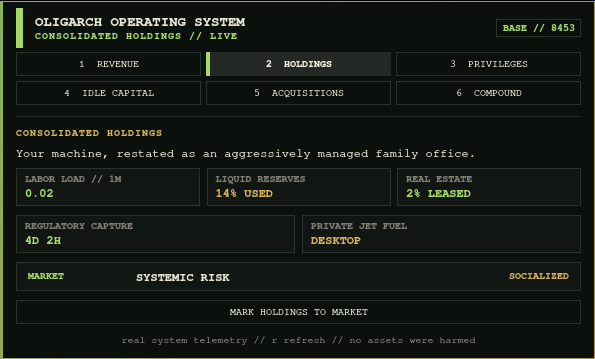
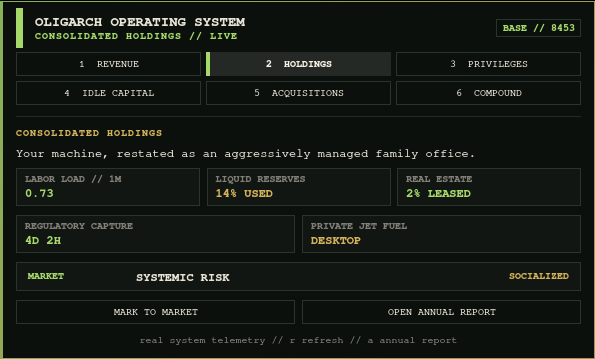
Add the floating annual report

diff --git a/TaxDepartment.qml b/TaxDepartment.qml
@@ -17,7 +17,7 @@ Panel {
   readonly property color contentUrgent: bar ? bar.urgent : Color.urgent
   readonly property string contentFontFamily: bar ? bar.fontFamily : Style.font.family
   readonly property var pageNames: ["REVENUE", "HOLDINGS", "PRIVILEGES", "IDLE CAPITAL", "ACQUISITIONS", "COMPOUND"]
-  readonly property var pageActionCounts: [3, 1, 4, 4, 5, 5]
+  readonly property var pageActionCounts: [3, 2, 4, 4, 5, 5]
   readonly property var pageComponents: [revenuePage, holdingsPage, privilegesPage, screensaverPage, acquisitionsPage, compoundPage]
 
   property int serial: 1040
@@ -164,6 +164,17 @@ Panel {
     if (!metricsProcess.running) metricsProcess.running = true
   }
 
+  function openAnnualReport() {
+    var reportUrl = Qt.resolvedUrl("annual-report.sh").toString()
+    var reportPath = decodeURIComponent(reportUrl.replace(/^file:\/\//, ""))
+    receipt = "ANNUAL REPORT FILED // UNAUDITED FOREVER"
+    root.close()
+    Quickshell.execDetached([
+      "omarchy-launch-floating-terminal-with-presentation",
+      "bash " + Util.shellQuote(reportPath)
+    ])
+  }
+
   function setPage(index) {
     pageIndex = ((index % pageNames.length) + pageNames.length) % pageNames.length
     actionIndex = 0
@@ -189,8 +200,12 @@ Panel {
       else if (actionIndex === 1) openExplorer()
       else reassess()
     } else if (pageIndex === 1) {
-      refreshMetrics()
-      receipt = "HOLDINGS MARKED TO MARKET"
+      if (actionIndex === 0) {
+        refreshMetrics()
+        receipt = "HOLDINGS MARKED TO MARKET"
+      } else {
+        openAnnualReport()
+      }
     } else if (pageIndex === 2) {
       if (actionIndex === 0) lockEstate()
       else if (actionIndex === 1) toggleSilence()
@@ -221,8 +236,9 @@ Panel {
       if (key === "c") copyAddress()
       else if (key === "o") openExplorer()
       else if (key === "r") reassess()
-    } else if (pageIndex === 1 && key === "r") {
-      refreshMetrics()
+    } else if (pageIndex === 1) {
+      if (key === "r") refreshMetrics()
+      else if (key === "a") openAnnualReport()
     } else if (pageIndex === 2) {
       if (key === "l") lockEstate()
       else if (key === "d") toggleSilence()
@@ -426,7 +442,7 @@ Panel {
         Text {
           width: parent.width
           text: root.pageIndex === 0 ? "1–6 desks // c copy // o ledger // r reassess"
-            : root.pageIndex === 1 ? "real system telemetry // r refresh // no assets were harmed"
+            : root.pageIndex === 1 ? "real system telemetry // r refresh // a annual report"
             : root.pageIndex === 2 ? "l lock // d silence // a stay awake // s screenshot"
             : root.pageIndex === 3 ? "p preview // m make default // x restore // b brand system"
             : root.pageIndex === 4 ? "live Hyprland portfolio // arrows select // Enter acquires"
@@ -527,7 +543,11 @@ Panel {
           Text { width: parent.width * 0.22; text: "SOCIALIZED"; color: root.contentUrgent; font.family: root.contentFontFamily; font.pixelSize: Style.font.caption; font.bold: true; horizontalAlignment: Text.AlignRight }
         }
       }
-      ActionButton { width: parent.width; action: 0; text: "MARK HOLDINGS TO MARKET"; onClicked: { root.refreshMetrics(); root.receipt = "HOLDINGS MARKED TO MARKET" } }
+      Row {
+        width: parent.width; spacing: Style.space(7)
+        ActionButton { width: (parent.width - parent.spacing) / 2; action: 0; text: "MARK TO MARKET"; onClicked: { root.refreshMetrics(); root.receipt = "HOLDINGS MARKED TO MARKET" } }
+        ActionButton { width: (parent.width - parent.spacing) / 2; action: 1; text: "OPEN ANNUAL REPORT"; onClicked: root.openAnnualReport() }
+      }
     }
   }
 

diff --git a/validate_theme.py b/validate_theme.py
@@ -115,6 +115,7 @@ def validate_plugin() -> dict[str, object]:
     assert "Quickshell.Hyprland" in qml, "expected native Hyprland workspace integration"
     assert "PORTFOLIOS" in model and "PORTFOLIO COMPANIES" in qml, "expected workspace acquisition desk"
     assert "COMPOUND INTEREST" in qml and "formatFocusTime" in model, "expected focus desk"
+    assert "openAnnualReport" in qml and "omarchy-launch-floating-terminal-with-presentation" in qml, "expected terminal annual report launcher"
     assert 'pageNames: ["REVENUE", "HOLDINGS", "PRIVILEGES", "IDLE CAPITAL", "ACQUISITIONS", "COMPOUND"]' in qml
     for command in (
         "omarchy-system-lock", "omarchy-toggle-notification-silencing",
@@ -141,6 +142,21 @@ def validate_installer() -> None:
     assert "rescanPlugins" in installer, "installer must rescan shell plugins"
     for destructive in ("reset --hard", "plugin remove", "rm -rf"):
         assert destructive not in installer, f"installer must not use destructive recovery: {destructive}"
+
+
+def validate_annual_report() -> None:
+    report_path = ROOT / "annual-report.sh"
+    report = report_path.read_text(encoding="utf-8")
+    assert report.startswith("#!/bin/bash\n"), "annual report must have a Bash shebang"
+    assert "TREASURY.txt" in report, "annual report must read the frozen treasury authority"
+    assert WALLET not in report, "annual report must not duplicate the treasury wallet"
+    for expected in (
+        "CONSOLIDATED ANNUAL REPORT", "CONSOLIDATED HOLDINGS",
+        "PORTFOLIO COMPANIES", "TREASURY AND VOLUNTARY COMPLIANCE", "qrencode",
+    ):
+        assert expected in report, f"annual report missing surface: {expected}"
+    for forbidden in ("curl ", "wget ", "sudo ", "eval ", "rm -", "systemctl "):
+        assert forbidden not in report, f"annual report violates its read-only boundary: {forbidden}"
 
 
 def validate_images() -> list[Path]:
@@ -236,6 +252,7 @@ def main() -> None:
     shell_overrides = validate_shell_overrides()
     manifest = validate_plugin()
     validate_installer()
+    validate_annual_report()
     backgrounds = validate_images()
     validate_wallet_authority()
     decoded, qr_size = validate_qr()

diff --git a/README.md b/README.md
@@ -14,7 +14,7 @@ OLIGARCHY 4.0 is not a wallpaper with matching colors. It turns the desktop into
 | --- | --- | --- |
 | Bar | Live `TAX·nn` assessment ticker | Opening the operating panel; instant copy/reassessment |
 | Revenue desk | Department of Oligarch Revenue | Verified QR, address copy, BaseScan, fresh assessments |
-| Holdings desk | Machine as family-office balance sheet | Live load, memory, disk, uptime, and battery telemetry |
+| Holdings desk | Machine as family-office balance sheet | Live telemetry and a floating-terminal annual report |
 | Privileges desk | System controls renamed for executives | Lock, DND, stay-awake, fullscreen screenshot |
 | Idle Capital desk | Four-scene native screensaver manager | Preview, opt-in default, restore, system branding |
 | Acquisitions desk | Live Hyprland workspaces as portfolio companies | Window counts, current-workspace state, direct switching |
@@ -41,6 +41,8 @@ The Revenue desk keeps the original joke honest: the QR is real, the address is 
 ![Live system holdings desk](assets/oligarch-os-holdings.png)
 
 This is real local system telemetry wearing a ridiculous annual report: one-minute load, memory utilization, root-disk occupancy, uptime, and battery capacity. Nothing is fetched from a network.
+
+**Open Annual Report** carries that joke into a separate terminal surface using Omarchy's supported floating-terminal presentation launcher. It renders the same live local holdings, active Hyprland workspace and window count, the exact treasury authority, and a terminal QR. It changes no state and makes no network request.
 
 ### 3. Executive Privileges
 
@@ -142,9 +144,12 @@ If the theme is already installed, this is the recovery path:
 ```bash
 omarchy theme update
 bash ~/.config/omarchy/themes/oligarchy/install-plugin.sh
+omarchy-restart-shell
 ```
 
 If it stops because the plugin directory contains local work or is not a Git checkout, it leaves that directory untouched and reports the exact path.
+
+The installer rescans and verifies discovery before it reports success, but the running desktop can still retain the previous plugin generation. Restart the shell after an install or update. If that system command does not replace the visible generation, reboot once; that fallback has been confirmed on a real Omarchy installation. The installer deliberately does not restart or reboot the active session for you.
 
 ### Upgrade from 2.x
 
@@ -152,6 +157,7 @@ If it stops because the plugin directory contains local work or is not a Git che
 omarchy theme update
 omarchy theme set oligarchy
 bash ~/.config/omarchy/themes/oligarchy/install-plugin.sh
+omarchy-restart-shell
 ```
 
 ## Screensaver integration and restoration
@@ -204,7 +210,8 @@ The separately approved plugin:
 - never requests a wallet connection, signature, secret, or payment;
 - stores only reversible user state under `~/.local/state/oligarchy/`;
 - backs up branding before changing it and restores the previous bytes;
-- uses fixed system commands rather than interpolating external input.
+- uses fixed system commands rather than interpolating external input;
+- launches its read-only annual report through Omarchy's own floating-terminal helper and reads the existing `TREASURY.txt` authority instead of duplicating the wallet.
 
 Remove the interactive layer without touching the theme:
 
@@ -226,6 +233,7 @@ The active `backgrounds/` directory contains one deterministic wallpaper, `+tax-
 python validate_theme.py
 node tests/model.test.js
 bash tests/install_plugin.test.sh
+bash tests/annual_report.test.sh
 omarchy plugin validate .
 ```
 
